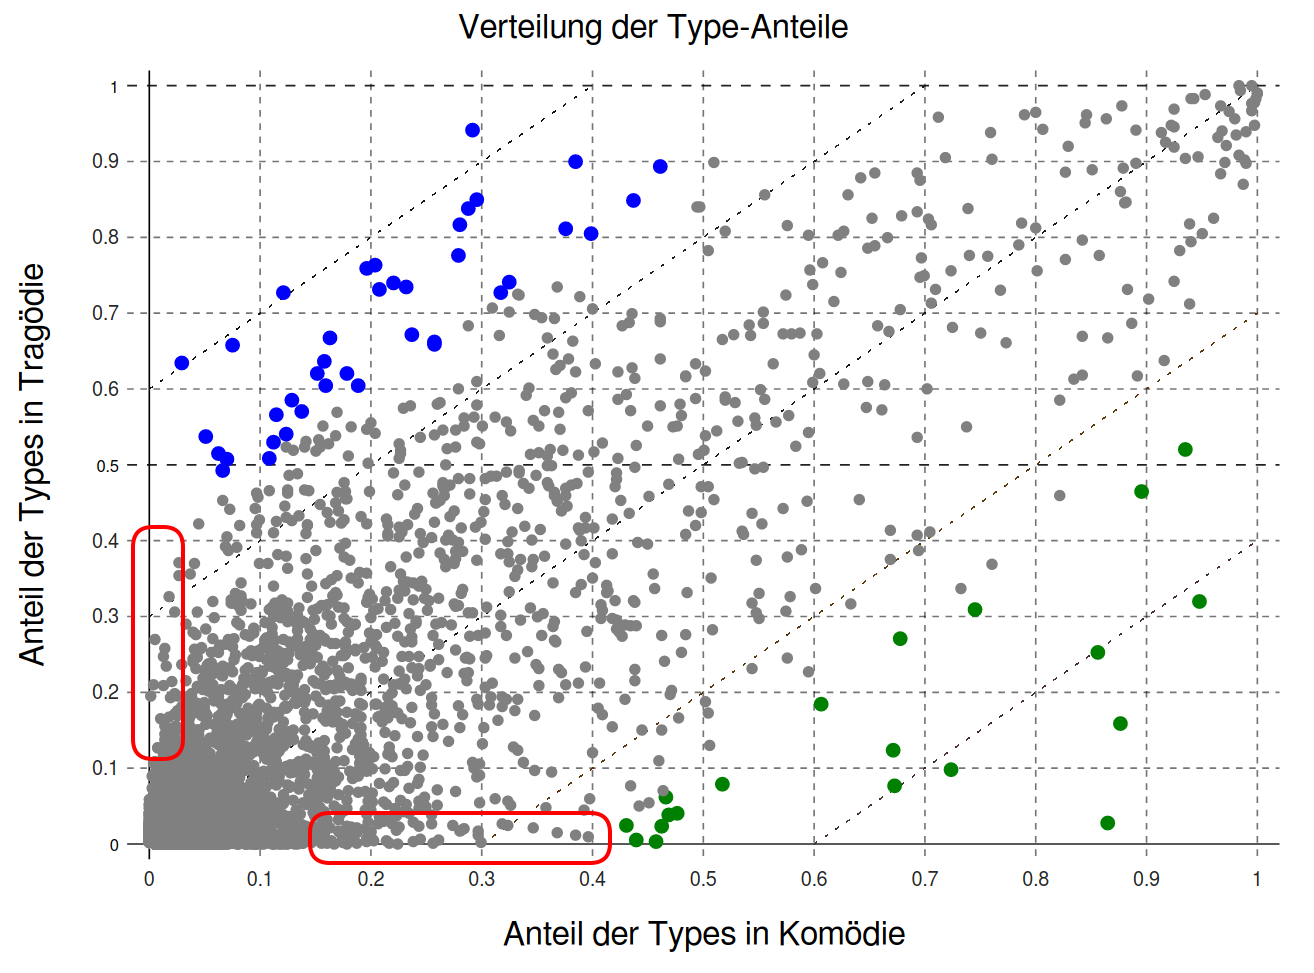
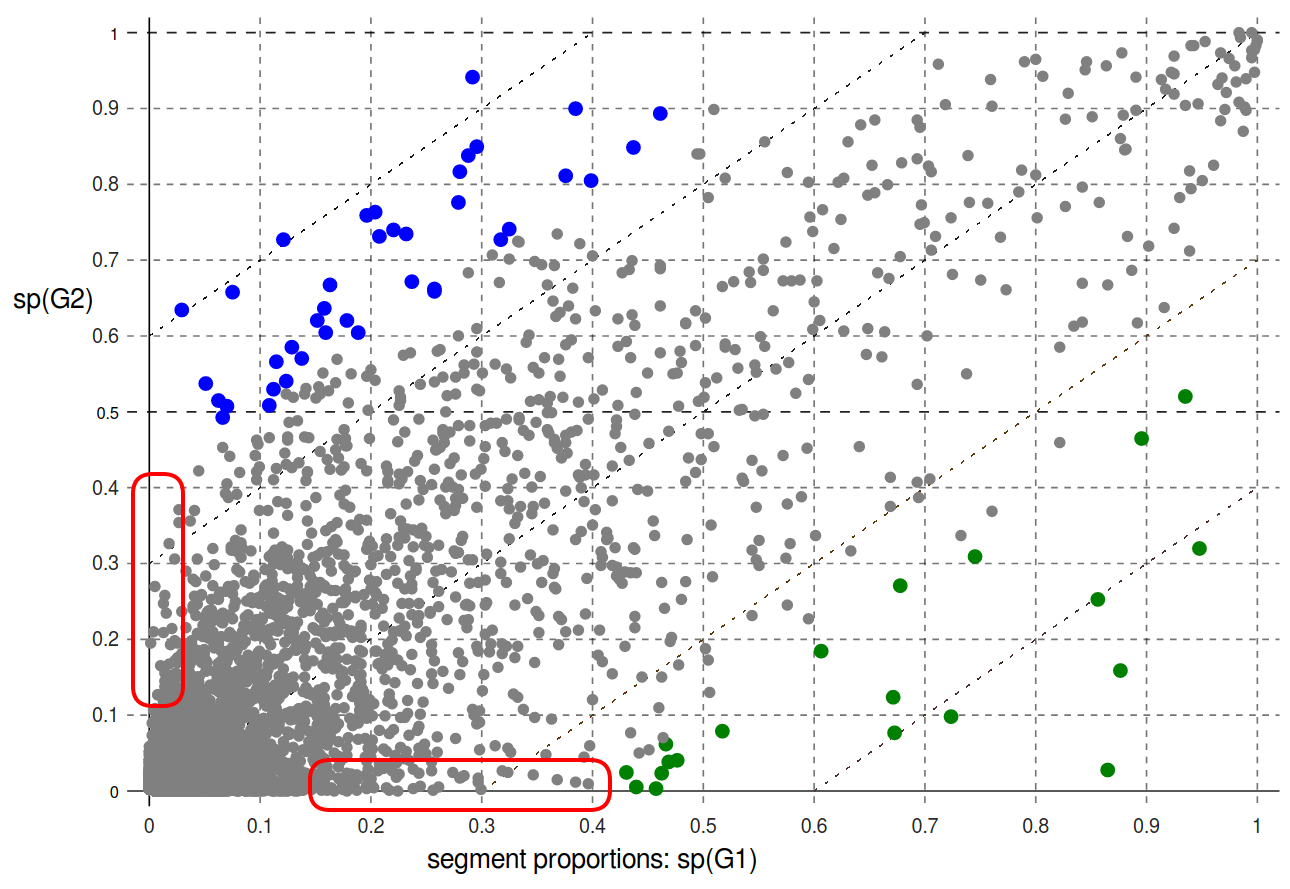
shortening, adjustments

diff --git a/index.html b/index.html
@@ -35,55 +35,48 @@ document.getElementsByTagName( 'head' )[0].appendChild( link );
 
 <!-- THIS IS WHERE THE CONTENT GOES! -->
 <!-- Any section element inside of this container is displayed as a slide -->
-# Burrows' Zeta
-##Exploring and Explaining Variants and Parameters
+## Burrows' Zeta
+###Exploring and Explaining Variants and Parameters
+<br/>
 <hr/>
+<br/>slides: <a href="https://christofs.github.io/pyzeta_en/">christofs.github.io/pyzeta_en/</a>
+<br/>español: <a href="https://annuel.framapad.org/p/zeta-dh2018">annuel.framapad.org/p/zeta-dh2018</a>
 <br/>
 <br/>
-Christof Schöch, Daniel Schlör, Albin Zehe, Henning Gebhard, Martin Becker, Andreas Hotho
-<br/>
-<br/>**DH2018, Mexico City, June 29, 2018**
 <hr/>
-<br/>
-<img height="50" data-src="img/basics/UWUE.jpg"></img>&nbsp;&nbsp;&nbsp;&nbsp;&nbsp;&nbsp;<img height="50" data-src="img/basics/CLiGS.jpg"></img>&nbsp;&nbsp;&nbsp;&nbsp;&nbsp;&nbsp;<img height="50" data-src="img/basics/BMBF.jpg"></img>&nbsp;&nbsp;&nbsp;&nbsp;&nbsp;&nbsp;<img height="45" data-src="img/basics/uni-trier.png"></img>
+<br/><small>Christof Schöch, Daniel Schlör, Albin Zehe, Henning Gebhard, Martin Becker, Andreas Hotho
+<br/>**DH2018, Mexico City, June 29, 2018**</small>
+<hr/>
+<br/><img height="50" data-src="img/basics/UWUE.jpg"></img>&nbsp;&nbsp;&nbsp;&nbsp;&nbsp;&nbsp;<img height="50" data-src="img/basics/CLiGS.jpg"></img>&nbsp;&nbsp;&nbsp;&nbsp;&nbsp;&nbsp;<img height="50" data-src="img/basics/BMBF.jpg"></img>&nbsp;&nbsp;&nbsp;&nbsp;&nbsp;&nbsp;<img height="45" data-src="img/basics/uni-trier.png"></img>
 
 
 ---
 # Overview
 <br/>
-1. [Introduction: Distinctiveness](#/2)
+1. [Introduction](#/2)
 2. [What is Zeta?](#/3)
-3. [Zeta variants and parameters](#/4)
-4. [Text collection, code and raw data](#(5)
+3. [Parameters and variants](#/4)
+4. [Data, code and raw results](#(5)
 5. [Methods and hypotheses](#(6)
 6. [Exploratory Approaches](#(7)
-7. [Evaluation of Variants and Parameters](#(8)
+7. [Evaluation](#(8)
 8. [Interpretability](#(9)
-9. [Conclusion and Future Work](#(10)
+9. [Conclusion](#(10)
 
 
 ---
 # 1. Introduction:<br/>Distinctiveness
 
 --
-## Previous Work
-<br/>
-* Building on work by: <!-- .element: class="fragment" data-fragment-index="1" --> 
-    * John Burrows (2007)
-    * Hugh Craig (2009) 
-    * David Hoover (2010)
-* From our group <!-- .element: class="fragment" data-fragment-index="2" --> 
-   * Python implementation of Zeta (github.com/cligs/pyzeta)
-   * Application of Zeta to issues of literary subgenres
-* Today: Focus on methodology / evaluation <!-- .element: class="fragment" data-fragment-index="3" --> 
-
-
---
 ## Foundations
 <br/>
-* Omnipresence of contrastive / comparative analysis <!-- .element: class="fragment" data-fragment-index="1" --> 
+* Contrastive / comparative analysis is widespread <!-- .element: class="fragment" data-fragment-index="1" --> 
 * Numerous measures of distinctiveness ("keyness") <!-- .element: class="fragment" data-fragment-index="2" -->
 * Implementations: Antconc, WordCruncher, TXM, stylo, etc. <!-- .element: class="fragment" data-fragment-index="3" -->
+* We are building on work by John Burrows (2007), Hugh Craig (2009), David Hoover (2010) <!-- .element: class="fragment" data-fragment-index="4" -->
+* So far: <!-- .element: class="fragment" data-fragment-index="5" -->
+    * a Python implementation
+    * an application to literary subgenres 
 
 --
 ## What is distinctiveness?
@@ -92,22 +85,7 @@ Christof Schöch, Daniel Schlör, Albin Zehe, Henning Gebhard, Martin Becker, An
 * Calculates a score for each feature <!-- .element: class="fragment" data-fragment-index="2" --> 
 * Simple frequency is not enough (= typical) <!-- .element: class="fragment" data-fragment-index="3" --> 
 * Rather: comparatively high/low frequency (= distinctive) <!-- .element: class="fragment" data-fragment-index="4" --> 
-
---
-## Requirements for measures of distinctiveness
-<br/>
-* Balance absolute and comparative frequency (function words!) <!-- .element: class="fragment" data-fragment-index="1" -->
-* Identify features distinctive of the entire group (names!) <!-- .element: class="fragment" data-fragment-index="2" -->
-* Indicate a recognisable cut-off (e.g. significance test) <!-- .element: class="fragment" data-fragment-index="3" -->
-* Permit high interpretability of results <!-- .element: class="fragment" data-fragment-index="4" -->
-
---
-## Types of measures of distinctiveness
-<br/>
-1. Expected vs. observed values<br/>(e.g. log-likelihood-ratio) <!-- .element: class="fragment" data-fragment-index="1" -->
-2. Weighted frequencies (e.g. tf-idf) <!-- .element: class="fragment" data-fragment-index="2" -->
-3. Hypothesis tests for distributions<br/>(e.g. t-Test) <!-- .element: class="fragment" data-fragment-index="3" -->
-4. Dispersion measures (e.g. Zeta) <!-- .element: class="fragment" data-fragment-index="4" -->
+* Zeta: high interpretability of results <!-- .element: class="fragment" data-fragment-index="5" -->
 
 
 ---
@@ -116,59 +94,31 @@ Christof Schöch, Daniel Schlör, Albin Zehe, Henning Gebhard, Martin Becker, An
 --
 ## Zeta: Basis
 <br/>
-* two groups of documents: <br/>target group (T), comparison group (C) <!-- .element: class="fragment" data-fragment-index="1" -->
+* two groups of documents G1 and G2 <!-- .element: class="fragment" data-fragment-index="1" -->
 * each document is split into m segments of n words <!-- .element: class="fragment" data-fragment-index="2" -->
 * sp_i = segment proportion of word type i <!-- .element: class="fragment" data-fragment-index="3" -->
-* calculated for T and C separatedly <!-- .element: class="fragment" data-fragment-index="4" -->
+* calculated for G1 and G2 separatedly <!-- .element: class="fragment" data-fragment-index="4" -->
 
 --
 ## Zeta: Calculation
 <br/>
-**Zeta<sub>i</sub> = sp<sub>i</sub>(T) - sp<sub>i</sub>(C)**
+<br/>
+**Zeta<sub>i</sub> = sp<sub>i</sub>(G1) - sp<sub>i</sub>(G2)**
 <br/>
 <br/>
 * A simple subtraction of the segment proportions <!-- .element: class="fragment" data-fragment-index="1" -->
 * Calculated for each word type, sorted by Zeta <!-- .element: class="fragment" data-fragment-index="2" -->
+* Result: list of distinctive words <!-- .element: class="fragment" data-fragment-index="3" -->
 
---
-## Some properties
-<br/>
-* Fixed theoretical range (-1.0 through +1.0) <!-- .element: class="fragment" data-fragment-index="1" -->
-* Spikey features don't get high Zeta<br/>scores (names) <!-- .element: class="fragment" data-fragment-index="2" -->
-* Very widespread features don't get<br/>high Zeta scores (function words) <!-- .element: class="fragment" data-fragment-index="3" -->
-* Inherent bias towards mid-range<br/>frequency words (content words) <!-- .element: class="fragment" data-fragment-index="4" -->
-* No inherent cut-off point <!-- .element: class="fragment" data-fragment-index="5" -->
 
 --
 ## Segment proportions and Zeta
 <a href="img/fig-1_docprops-und-zetascores_mit-pointer.png"><img height="550" src="img/fig-1_docprops-und-zetascores_mit-pointer.png"></img></a>
+<br/><small>Each dot is one word; Zeta = sp(G1)-sp(G2)</small>
 
 
 ---
-# 3. Text collection, data and code
-
---
-## Text collection used
-<br/>
-* Today: results from a collection of Spanish novels <!-- .element: class="fragment" data-fragment-index="1" --> 
-* Date of publication: 1880-1940 <!-- .element: class="fragment" data-fragment-index="2" -->
-* 24 novels from Spain, 24 novels from Latin America <!-- .element: class="fragment" data-fragment-index="3" -->
-* Source: CLiGS textbox, github.com/cligs/textbox<br/>(Henny 2017 and Calvo Tello 2017) <!-- .element: class="fragment" data-fragment-index="4" -->
-
-
---
-## Code and raw data
-<br/>
-* Code: pyzeta, github.com/cligs/pyzeta <!-- .element: class="fragment" data-fragment-index="1" -->
-* Raw data: github.com/cligs/projects2018/tree/master/zeta-dh <!-- .element: class="fragment" data-fragment-index="1" -->
-
----
-# 4. Methods and Hypotheses
-
-
-
----
-# 5. Parameters and variants
+# 4. Parameters and variants
 
 --
 ## Relevant parameters
@@ -186,15 +136,48 @@ Christof Schöch, Daniel Schlör, Albin Zehe, Henning Gebhard, Martin Becker, An
 --
 ## Overview of variants
 <br/>
-<a href="img/variants.png"><img height="450" src="img/variants.png"></img></a>
-
+<a href="img/variants-labels.png"><img height="450" src="img/variants-labels.png"></img></a>
+<br/>sp0 = Burrows Delta, sp2 = log2-Zeta
 
 --
 ## Possible desired effects
 <br/>
-* avoid inherent limitation<br/>of maximal Zeta score to sp_i <!-- .element: class="fragment" data-fragment-index="1" -->
-* improve distinctiveness <!-- .element: class="fragment" data-fragment-index="2" -->
-* maintain interpretability <!-- .element: class="fragment" data-fragment-index="3" -->
+* improve distinctiveness <!-- .element: class="fragment" data-fragment-index="1" -->
+* maintain interpretability <!-- .element: class="fragment" data-fragment-index="2" -->
+
+
+---
+# 5. Data, code, raw results
+
+--
+## Text collection used
+<br/>
+* Today: results from a collection of Spanish novels <!-- .element: class="fragment" data-fragment-index="1" --> 
+* Date of publication: 1880-1940 <!-- .element: class="fragment" data-fragment-index="2" -->
+* 24 novels from Spain, 24 novels from Latin America <!-- .element: class="fragment" data-fragment-index="3" -->
+* Source: CLiGS textbox, github.com/cligs/textbox<br/>(Henny 2017 and Calvo Tello 2017) <!-- .element: class="fragment" data-fragment-index="4" -->
+
+
+--
+## Code and raw data
+<br/>
+* Code: pyzeta, github.com/cligs/pyzeta <!-- .element: class="fragment" data-fragment-index="1" -->
+* Raw data: github.com/cligs/projects2018/tree/master/zeta-dh <!-- .element: class="fragment" data-fragment-index="1" -->
+
+---
+# 5. Methods and Hypotheses
+
+--
+## Methods 
+<br/>
+* Exploratory: plot Zeta data, varying parameters and variants <!-- .element: class="fragment" data-fragment-index="1" -->
+* Performance testing: classification task with varying parameters and variants <!-- .element: class="fragment" data-fragment-index="2" -->
+
+--
+## Hypotheses
+<br/>
+* Some of the variants should perform <br/>better in the classification task <!-- .element: class="fragment" data-fragment-index="1" --> 
+* Extreme segment lenghts should<br/>negatively impact performance <!-- .element: class="fragment" data-fragment-index="2" --> 
 
 
 ---
@@ -207,10 +190,6 @@ Christof Schöch, Daniel Schlör, Albin Zehe, Henning Gebhard, Martin Becker, An
 
 --
 ## Segment proportions and variants
-<a href="img/image2a.png"><img height="550" src="img/image2a.png"></img></a>
-
---
-## Segment proportions and variants
 <a href="img/image2b.png"><img height="550" src="img/image2b.png"></img></a>
 
 
@@ -219,17 +198,12 @@ Christof Schöch, Daniel Schlör, Albin Zehe, Henning Gebhard, Martin Becker, An
 
 
 --
-## Classification Task: Overview
-<br/>
-<img height="400" src="img/variants-scores.png"></img>
-<br/>
-<small>Classification task: linear SVM classifier using 40 most distinctive words, <br/>three-fold cross-validation; tf-idf Baseline 0.49</small>
-
---
-## Classification task: details
+## Classification task
 <a href="img/image1.png"><img height="500" src="img/image1.png"></img></a>
 <br/>
 <small>Zeta variants (rows) and parameters (columns)</small>
+<small>Task details: linear SVM classifier using 40 most distinctive words, <br/>three-fold cross-validation; tf-idf Baseline 0.49</small>
+
 
 
 ---
@@ -238,14 +212,13 @@ Christof Schöch, Daniel Schlör, Albin Zehe, Henning Gebhard, Martin Becker, An
 --
 ## 
 <br/>
-* Better performance and robustness is nice
-* But does interpretability remain high?
-* Is there an trade-off between interpretability and performance?
-
+* Better performance and robustness is nice <!-- .element: class="fragment" data-fragment-index="1" --> 
+* But: is there a trade-off between interpretability and performance? <!-- .element: class="fragment" data-fragment-index="2" --> 
+* Operationalization of "interpretability":<br/>proportion of content words <!-- .element: class="fragment" data-fragment-index="3" --> 
 
 
 ---
-# 9. Conclusion and Future Work
+# 9. Conclusion
 
 --
 ## Results
@@ -262,12 +235,19 @@ Christof Schöch, Daniel Schlör, Albin Zehe, Henning Gebhard, Martin Becker, An
 ## Next steps
 <br/>
 * Operationalize "interpretability"<!-- .element: class="fragment" data-fragment-index="2" -->
-* Systematic evaluation of Zeta and established measures of keyness using the same datasets and the same evaluation methods <!-- .element: class="fragment" data-fragment-index="3" -->
+* Systematic evaluation of Zeta and similar measures<!-- .element: class="fragment" data-fragment-index="3" -->
 
 
 --
 ## Many thanks! / ¡Muchas gracias!
 <br/>
+**Code and Data**
+<small>
+
+* Code: https://pyzeta, github.com/cligs/pyzeta
+* Raw data: https://github.com/cligs/projects2018/tree/master/zeta-dh
+
+</small>
 <br/>
 **References**
 <small>
@@ -276,9 +256,8 @@ Christof Schöch, Daniel Schlör, Albin Zehe, Henning Gebhard, Martin Becker, An
 * Gries, Stephan. "Dispersions and adjusted frequencies in corpora". *International Journal of Corpus Linguistics* 13:4 (2008), 403–437. 
 * Hoover, David L. “Teasing out Authorship and Style with T-Tests and Zeta.” In _Digital Humanities Conference_. London, 2010. http://dh2010.cch.kcl.ac.uk/academic-programme/abstracts/papers/html/ab-658.html.
 * Lijffijt, Jefrey et al. “Significance Testing of Word Frequencies in Corpora.” _Digital Scholarship in the Humanities_ 31, no. 2 (2014): 374–97. doi:10.1093/llc/fqu064.
-* Oakes, Michael P. _Statistics for Corpus Linguistics_. Edinburgh: Edinburgh Univ. Press, 1998.
 * Rayson, Paul, and R. Garside. “Comparing Corpora Using Frequency Profiling.” In _Proceedings of the Workshop on Comparing Corpora_, 1–6. Hong Kong: ACM, 2000.
-* Schöch, Christof. „Zeta für die kontrastive Analyse literarischer Texte. Theorie, Implementierung, Fallstudie“, in: _Quantitative Ansätze in den Literatur- und Geisteswissenschaften_, hg. Toni Bernhard et al. Berlin: de Gruyter, 2018. https://www.degruyter.com/view/books/9783110523300/9783110523300-004/9783110523300-004.xml
+* Schöch, Christof. „Zeta für die kontrastive Analyse literarischer Texte. Theorie, Implementierung, Fallstudie“, in: _Quantitative Ansätze in den Literatur- und Geisteswissenschaften_, hg. Toni Bernhard et al. Berlin: de Gruyter, 2018.
 
 <p><br/>With special thanks to pygal and reveal.js</p>
 
